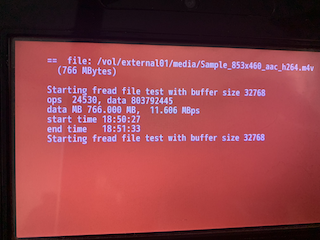
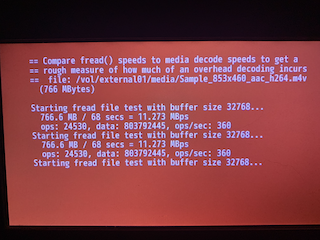
cleaned up format

diff --git a/examples/4-readspeed/readspeed.c b/examples/4-readspeed/readspeed.c
@@ -1,8 +1,8 @@
 /*
 
-== WIP 
-== DONE, added and tested fread routine, 
-== TBD, add ffpeg decoder 
+== WIP
+== DONE, added and tested fread routine,
+== TBD, add ffpeg decoder
 
 A simple example comparing freads vs read/decodes of media files on
 your SD card
@@ -30,33 +30,14 @@ UPDATE: this works on the WIIU, but crashes on CEMU.  TBD: debug
 #include <whb/log_console.h>
 #include <whb/proc.h>
 
-// from retroarch
-#define ticks_to_sec(ticks) \
-    (((uint64_t)(ticks)) / (17 * 13 * 5 * 5 * 5 * 5 * 5 * 5 * 3 * 3 * 2))
-
 struct Results {
-    int32_t filesize;
+    int32_t st_size;
     int test_type; /* 0 file, 1 decode */
     uint64_t ops;  /* freads vs packet decodes */
     uint64_t data_read;
     uint64_t start_time;
     uint64_t end_time;
 };
-
-const int BLK_SZ = 32768;
-
-/*   debugging only
-void custom_av_log(void *ptr, int level, const char *fmt, va_list vl)
-{
-    FILE *fp = fopen("/vol/storage_mlc01/media/av_log.txt", "a+");
-    if (fp)
-    {
-        vfprintf(fp, fmt, vl);
-        fflush(fp);
-        fclose(fp);
-    }
-}
-*/
 
 int get_first_filename(char *buffer, int size) {
     /* try to find /media in the WIIU SD mount, then the CEMU SD mount */
@@ -95,44 +76,44 @@ int64_t get_file_size(char *filename) {
     return f_stat.st_size;
 }
 
-int fread_file(char *fname, int blk_sz, struct Results *res) {
+int print_test_results(struct Results res) {
+    double datamb = res.data_read / 1024.0 / 1024;
+    long duration = 1 * OSTicksToSeconds(res.end_time - res.start_time);
+    WHBLogPrintf("  %.1f MB / %ld secs = %.3f MBps ", datamb, duration,
+                 (double)(datamb / duration));
+    WHBLogPrintf("  ops: %lld, data: %lld, ops/sec: %ld", res.ops,
+                 (long long)res.data_read, (long)(res.ops / duration));
+}
+
+int fread_test(char *fname, int blk_sz, struct Results *res) {
     unsigned char buffer[blk_sz];
     FILE *fptr;
-    uint64_t ops = 0;
+    uint64_t bytes;
     uint64_t data = 0;
-
-    WHBLogConsoleDraw();
+    uint64_t ops = 0;
 
     // Open the binary file for reading. Assumes you tested for access()
     fptr = fopen(fname, "rb");
-    WHBLogConsoleDraw();
     if (fptr == NULL) {
         WHBLogPrint("Error opening file");
         WHBLogConsoleDraw();
         return 1;
     }
-    WHBLogPrintf("Starting fread file test with buffer size %ld", blk_sz);
+    WHBLogPrintf("Starting fread file test with buffer size %ld...", blk_sz);
     WHBLogConsoleDraw();
 
     res->start_time = OSGetTime();
-    int64_t bytes_read;
-    while ((bytes_read = fread(buffer, sizeof(unsigned char), blk_sz, fptr)) >
-           0) {
+    while ((bytes = fread(buffer, sizeof(unsigned char), blk_sz, fptr)) > 0) {
         ops++;
-        data += bytes_read;
+        data += bytes;
     }
     res->end_time = OSGetTime();
-
     fclose(fptr);
 
     res->ops = ops;
     res->data_read = data;
 
-    double datamb = (double)(data / 1024 / 1024);
-    WHBLogPrintf("ops  %lld, data %lld ", res->ops, (long long)res->data_read);
-    WHBLogPrintf("data MB %.3f MB,  %.3f MBps ", datamb,
-                 (double)(datamb / (long long)OSTicksToSeconds(
-                                       res->end_time - res->start_time)));
+    print_test_results(*res);
 
     return 0;
 }
@@ -147,9 +128,18 @@ void print_times(struct Results res) {
     WHBLogConsoleDraw();
 }
 
+void print_header(char *path_buffer, int64_t st_size) {
+    WHBLogPrint("== Compare fread() speeds to media decode speeds to get a ");
+    WHBLogPrint("== rough measure of how much of an overhead decoding incurs");
+    WHBLogPrintf("==  file: %s", path_buffer);
+    WHBLogPrintf("  (%lld MBytes)", (long long)(st_size / 1024 / 1024));
+    WHBLogPrint("");
+    WHBLogConsoleDraw();
+    OSSleepTicks(OSMillisecondsToTicks(1000));
+}
+
 int runtests() {
     char path_buffer[1024];
-    int64_t f_size;
     int ret;
 
     ret = get_first_filename(path_buffer, 1024);
@@ -159,29 +149,16 @@ int runtests() {
         return ret;
     }
 
-    struct Results fread_res;
+    struct Results fread_res = {
+        .st_size = get_file_size(path_buffer),
+        .test_type = 0,
+    };
 
-    f_size = get_file_size(path_buffer);
-    WHBLogPrintf("==  file: %s", path_buffer);
-    WHBLogPrintf("  (%lld MBytes)", (long long)(f_size / 1024 / 1024));
-    WHBLogPrint("");
-    WHBLogConsoleDraw();
+    print_header(path_buffer, fread_res.st_size);
 
-    OSSleepTicks(OSMillisecondsToTicks(1000));
-
-    fread_file(path_buffer, 32768, &fread_res);
-    print_times(fread_res);
-
-    fread_file(path_buffer, 32768, &fread_res);
-    print_times(fread_res);
-
-    fread_file(path_buffer, 32768, &fread_res);
-    print_times(fread_res);
-
-    WHBLogPrintf("==  file: %s", path_buffer);
-    WHBLogPrintf("  (%lld MBytes)", (long long)(f_size / 1024 / 1024));
-    WHBLogPrint("");
-    WHBLogConsoleDraw();
+    fread_test(path_buffer, 32768, &fread_res);
+    fread_test(path_buffer, 32768, &fread_res);
+    fread_test(path_buffer, 32768, &fread_res);
 
     return 0;
 }

diff --git a/examples/README.md b/examples/README.md
@@ -2,15 +2,22 @@
 
 ### Are you building media player?
 
-No. It's currently out of my skillset.
-
-But if you're interesting in making your own media player, I learned a bunch
-looking at the project GaryOderNichts/FFmpeg-wiiu.  It states it is an 
-attempt to add WiiU's built in h264 decoding library to ffmpeg.
+No. That's currently out of my skillset.
 
 ### What are these example files for?
 
-I'm learning by doing.  Step up a Dev environment, make some WiiU basic apps, try some ffmpeg API for detection and decoding, learn some WiiU UI code (sdl, etc), try out WiiU Texture Shaders, etc.
+To learn by doing. Specifically
+* [Done] Step up and get comfortable with a homebrew Dev environment,
+* [Done] make some WiiU basic apps, 
+* [Done] update ffmepg_wiiu config script, and link with WiiU example code.
+* [Done] try some ffmpeg API for detection on WiiU
+* [WIP] compare file system speed to ffmpeg decoding speed on WiiU
+* learn some WiiU UI code (sdl, imGui, etc), 
+* try some ffmpeg sdl player code samples on the WiiU
+* try out GX Texture Shaders, etc.  Needed for performance.
+* learn queue systems used for decoder apps
+
+What I learn, I'll leave behind for others.
 
 ### Things I've learned
 
